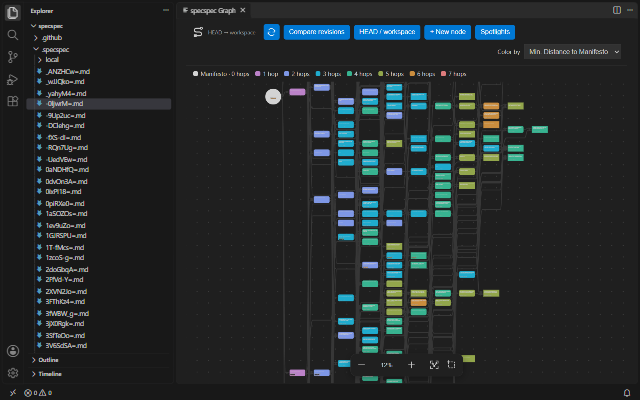
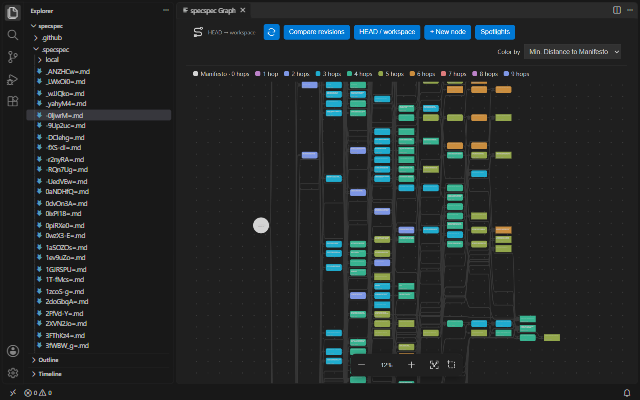
Retake the VS Code screenshot of this repository's graph
The README's first screenshot shows the graph as it is after the review
of 2026-11-11: 285 nodes with the reworded headlines. The README says
"about 280 nodes" where it said "about 250".

Taken with `node tools/readme_screenshots.cjs vscode` after
`npm run build`.

diff --git a/README.md b/README.md
@@ -169,9 +169,9 @@ puts what is beneath it up for review.
 As the owner you read and edit the graph in a graph editor: the VS Code extension or
 the desktop app, which draw the same zoomable canvas.
 
-<img src="https://raw.githubusercontent.com/jejay/specspec/main/docs/images/editor-vscode.png" alt="VS Code with the Explorer on the left, listing the Markdown node files in .specspec, and the specspec graph in an editor tab: about 250 nodes in columns, colored from purple to orange by their distance from the manifesto.">
+<img src="https://raw.githubusercontent.com/jejay/specspec/main/docs/images/editor-vscode.png" alt="VS Code with the Explorer on the left, listing the Markdown node files in .specspec, and the specspec graph in an editor tab: about 280 nodes in columns, colored from purple to orange by their distance from the manifesto.">
 
-This is specspec's own graph in VS Code from far above: about 250 nodes, colored by
+This is specspec's own graph in VS Code from far above: about 280 nodes, colored by
 their distance from the manifesto. The node files are in the Explorer on the left.
 
 <img src="https://raw.githubusercontent.com/jejay/specspec/main/docs/images/editor-desktop.png" alt="The desktop app comparing two stages of the example planner. Deleted nodes are red with a D, added nodes are green with an A and unchanged nodes are gray, under a toolbar and a legend.">
